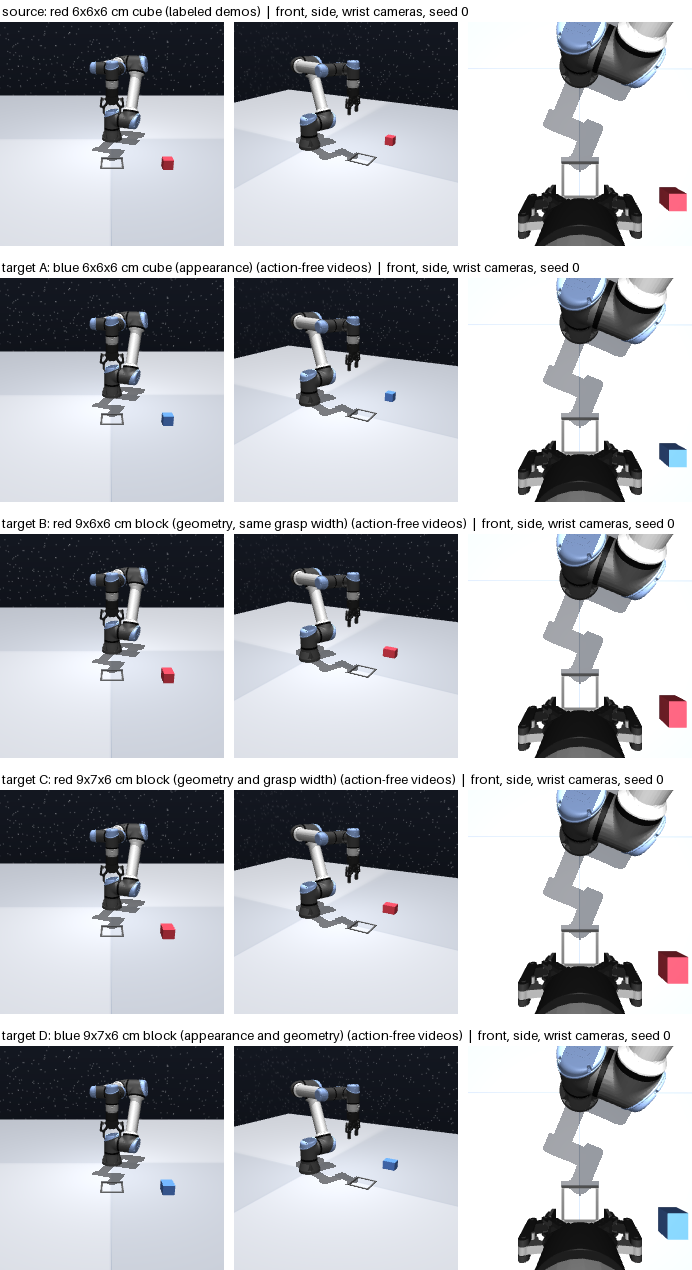
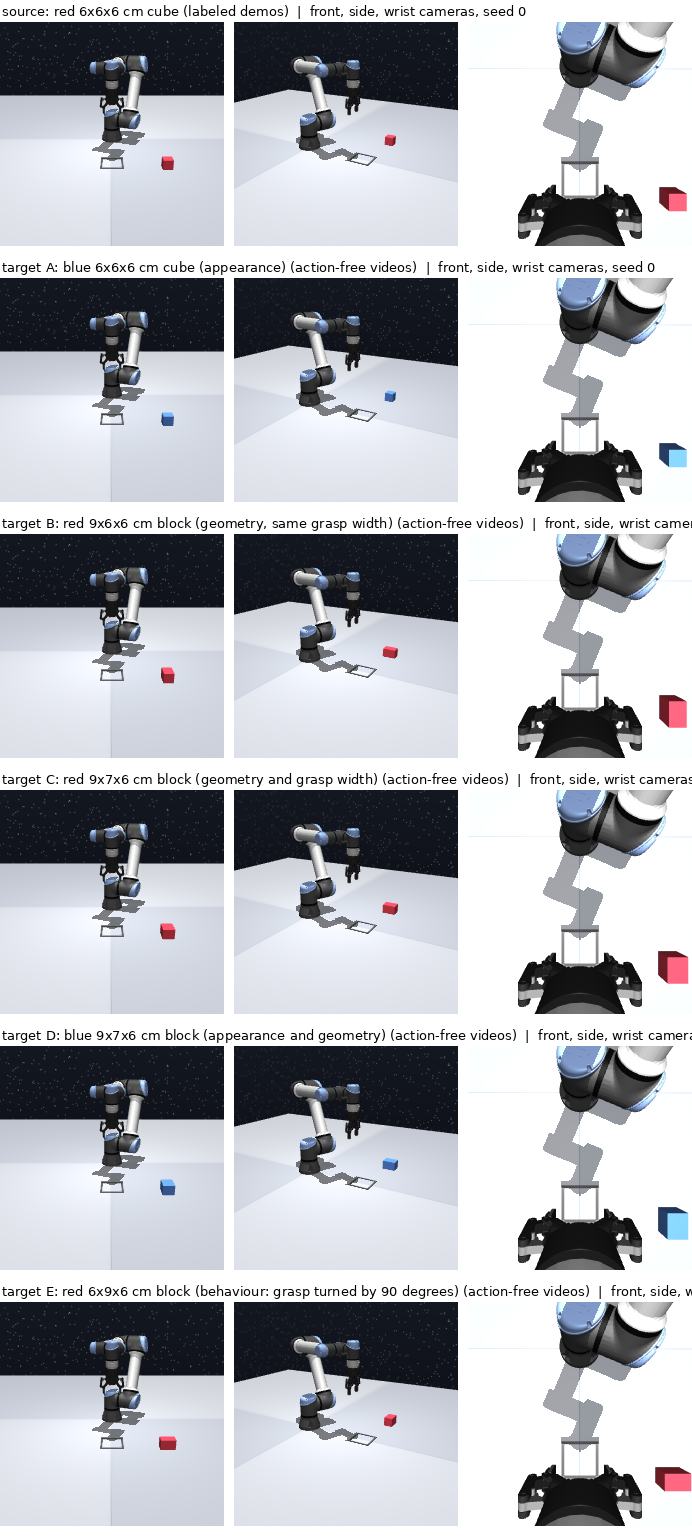
Target E and oracle D: results and documentation

diff --git a/README.md b/README.md
@@ -24,12 +24,13 @@ start for every object) and expert settings are shared. Defined in
 | B | 9 x 6 x 6 block, red | geometry | as source (across the 6 cm side) | [200](https://huggingface.co/datasets/Autobrik/ecse552-ocbench-block/tree/main/B-deterministic-n200-seed200000) | 200,000 | 99.0% |
 | C | 9 x 7 x 6 block, red | geometry and grasp width | across the 7 cm side, 2 cm above the centre | [200](https://huggingface.co/datasets/Autobrik/ecse552-ocbench-block/tree/main/C-deterministic-n200-seed300000) | 300,000 | 100% |
 | D | 9 x 7 x 6 block, blue | appearance, geometry and grasp width | as C | [200](https://huggingface.co/datasets/Autobrik/ecse552-ocbench-block/tree/main/D-deterministic-n200-seed400000) | 400,000 | 100% |
+| E | 6 x 9 x 6 block, red | behaviour: 9 cm does not fit the gripper | across the 6 cm side, gripper turned by 90° | [200](https://huggingface.co/datasets/Autobrik/ecse552-ocbench-block/tree/main/E-deterministic-n200-seed500000) | 500,000 | 93.9% |
 
 Targets are action-free videos for every method; their stored actions are only for the
 oracle (d) and evaluation. Blocks come from the fork's `object_size` argument: the 9 cm side
-lies along x, and success needs the whole block inside the 12 cm square. The expert never
-turns the grasp by 90 degrees, for any object (9 cm does not fit the 8.5 cm gripper, so
-cubes do not turn either). C and D are grasped higher because the gripper linkage hits a
+lies along x (along y for E), and success needs the whole block inside the 12 cm square. The
+expert never turns the grasp by 90 degrees, except for E, whose 9 cm side lies across the
+8.5 cm gripper ([target_E.md](docs/experiments/target_E.md)). C and D are grasped higher because the gripper linkage hits a
 7 cm block at its centre height (47% of episodes needed a second grasp attempt; 12% when
 grasping 2 cm higher, the same as the source).
 
@@ -42,9 +43,9 @@ hf download Autobrik/ecse552-ocbench-block --repo-type dataset --local-dir data 
 
 | Method | State | Where |
 |---|---|---|
-| Data: source and targets A, B, C, D | Done | [Objects](#objects) |
+| Data: source and targets A, B, C, D, E | Done | [Objects](#objects) |
 | (a) Baseline: ACT on source only | Done, 3 seeds | [baselines.md](docs/experiments/baselines.md) |
-| (d) Oracle: source + target with true actions | Done, 3 seeds for A, B, C; D not trained | [baselines.md](docs/experiments/baselines.md) |
+| (d) Oracle: source + target with true actions | Done, 3 seeds for A, B, C, D; E training | [baselines.md](docs/experiments/baselines.md) |
 | (e) Augmentation: source only, colour jitter | Done, 3 seeds; settings open to review | [augmentation.md](docs/experiments/augmentation.md) |
 | (b) IDM, (c) DANN | Not started; interface fixed | [Pseudo-labels](#data-and-models), `configs/act_idm_A.toml` |
 
@@ -57,14 +58,17 @@ Test success, 100 rollouts per object, mean ± std of 3 seeds. Original ACT
 | A (blue cube) | 0.3 ± 0.6% | **98.7 ± 1.5%** | 85.7 ± 14.0% |
 | B (red 9x6x6 block) | 82.3 ± 16.0% | 90.7 ± 10.1% | 88.3 ± 5.9% |
 | C (red 9x7x6 block) | 59.0 ± 20.0% | 68.0 ± 16.5% | 46.0 ± 37.5% |
-| D (blue 9x7x6 block) | 0% | **66.7 ± 7.6%** | not run |
+| D (blue 9x7x6 block) | 0% | **66.7 ± 7.6%** | 92.7 ± 4.2% |
+| E (red 6x9x6 block, turned grasp) | 0% | 0.3 ± 0.6% | training |
 
 - **The baseline's gap is colour, not shape**: it fails on the blue objects and transfers
   to the red blocks.
 - **Colour jitter alone closes that gap**: (e) uses no target data and reaches 98.7% on A,
   above the oracle, and 66.7% on D. On A nothing is left for (b) and (c) to gain over (e);
-  the room is on the 7 cm blocks C and D, where no method passes 70%
-  ([augmentation.md](docs/experiments/augmentation.md)).
+  on D the oracle is 26 points above it ([augmentation.md](docs/experiments/augmentation.md)).
+- **Target E changes the behaviour, not the appearance**: its 9 cm side does not fit the
+  gripper, so the grasp must turn by 90°. Baseline and augmentation both fail (0%, 0.3%);
+  only target videos can show the turn ([target_E.md](docs/experiments/target_E.md)).
 - **Oracle C**: seed 0 was a bad run (3%); seeds 1 and 2 reach 72% and 63%, and ACT on C
   alone 87% on validation. Its mean stays below the baseline, so C gives no usable gap for
   R4 ([baselines.md](docs/experiments/baselines.md)).
@@ -139,7 +143,7 @@ Fixed in [`configs/data.toml`](configs/data.toml) `[protocol]` before results:
 |---|---|
 | Episodes (`.npz`) | [Autobrik/ecse552-ocbench-block](https://huggingface.co/datasets/Autobrik/ecse552-ocbench-block) |
 | LeRobot copies, one per collection (visualizer) | [source](https://huggingface.co/datasets/Autobrik/ecse552-ocbench-source), [source-test](https://huggingface.co/datasets/Autobrik/ecse552-ocbench-source-test), [A](https://huggingface.co/datasets/Autobrik/ecse552-ocbench-A), [B](https://huggingface.co/datasets/Autobrik/ecse552-ocbench-B), [C](https://huggingface.co/datasets/Autobrik/ecse552-ocbench-C), [D](https://huggingface.co/datasets/Autobrik/ecse552-ocbench-D); augmentation (e), 20 episodes for illustration: [source-augmented-sample](https://huggingface.co/datasets/Autobrik/ecse552-ocbench-source-augmented-sample) |
-| ACT checkpoints | (a) [ecse552-act-deterministic](https://huggingface.co/Autobrik/ecse552-act-deterministic); (d) [-act-oracle-A](https://huggingface.co/Autobrik/ecse552-act-oracle-A), [-B](https://huggingface.co/Autobrik/ecse552-act-oracle-B), [-C](https://huggingface.co/Autobrik/ecse552-act-oracle-C); (e) [-act-augment](https://huggingface.co/Autobrik/ecse552-act-augment); diagnosis [-act-only-C](https://huggingface.co/Autobrik/ecse552-act-only-C); references: [-act-stochastic](https://huggingface.co/Autobrik/ecse552-act-stochastic), [-act-deterministic-proprio](https://huggingface.co/Autobrik/ecse552-act-deterministic-proprio) |
+| ACT checkpoints | (a) [ecse552-act-deterministic](https://huggingface.co/Autobrik/ecse552-act-deterministic); (d) [-act-oracle-A](https://huggingface.co/Autobrik/ecse552-act-oracle-A), [-B](https://huggingface.co/Autobrik/ecse552-act-oracle-B), [-C](https://huggingface.co/Autobrik/ecse552-act-oracle-C), [-D](https://huggingface.co/Autobrik/ecse552-act-oracle-D); (e) [-act-augment](https://huggingface.co/Autobrik/ecse552-act-augment); diagnosis [-act-only-C](https://huggingface.co/Autobrik/ecse552-act-only-C); references: [-act-stochastic](https://huggingface.co/Autobrik/ecse552-act-stochastic), [-act-deterministic-proprio](https://huggingface.co/Autobrik/ecse552-act-deterministic-proprio) |
 | Training curves | W&B `mu-robotics/ecse552` |
 
 Each collection records every seed, the scene and the expert's deliberate detours
@@ -173,9 +177,9 @@ repository as `labels/<name>/` and point a config's `[[targets]] actions` at it
 |---|---|
 | IDM (`idm.py`): predicts absolute targets from (o_t, o_t+1); writes pseudo-labels (format above) | Zheng Ye |
 | DANN (c) on the IDM | Myriam |
-| Oracle (d) for D (needs `configs/act_oracle_D.toml`) | Brik |
+| Oracle (d) for E: test and write up when the runs end | Brik |
 | Augmentation (e): review the settings in [augmentation.md](docs/experiments/augmentation.md) | Gonzalo |
-| Decide which targets anchor (b) and (c), now that (e) solves A | Team |
+| Targets for (b) and (c): A as a check of the pipeline, then D and E, where (e) leaves room; first measure the IDM label error on E ([target_E.md](docs/experiments/target_E.md)) | Team |
 
 ## Collaborating
 
@@ -190,7 +194,7 @@ repository as `labels/<name>/` and point a config's `[[targets]] actions` at it
 ```
 src/action_free/   collect, objects, initial_states, actions, act_original, evaluate, data, replay, idm (stub)
 scripts/           collect, replay, view, upload (npz, LeRobot), modal_train, select, evaluate, diagnose, play_policy, render
-configs/           data.toml (seeds, protocol, dataset revision), act_deterministic.toml (a), act_oracle_{A,B,C,D}.toml (d), act_augment.toml (e), act_idm_A.toml (b/c), act_only_C.toml (diagnosis), references
+configs/           data.toml (seeds, protocol, dataset revision), act_deterministic.toml (a), act_oracle_{A,B,C,D,E}.toml (d), act_augment.toml (e), act_idm_A.toml (b/c), act_only_C.toml (diagnosis), references
 third_party/       ocbench (fork), act (original)
 docs/              proposal, report, presentation, experiments, research
 ```

diff --git a/docs/experiments/target_E.md b/docs/experiments/target_E.md
@@ -1,0 +1,90 @@
+# Target E: a change of behaviour, not of appearance
+
+11 November 2026. Added after the results of augmentation (e), by Brik's decision. It was
+designed after seeing those results: say so in the report.
+
+## Why
+
+Method (e), source-only training with colour jitter, reaches 98.7% on the blue cube A
+without any target data ([augmentation.md](augmentation.md)). Targets that only change the
+appearance therefore cannot show what target videos add. A video of the target also shows
+**what to do** with it; augmentation cannot supply that.
+
+### Screening of candidates
+
+Trained checkpoints of (a) and (e) (3 seeds each) and of oracle A (seed 1) on four candidate
+objects, 20 validation rollouts each (seeds 900,000+). No training, no test seeds. The
+candidates were built by a temporary script and are not in the repository; with 20 rollouts
+each value is rough (about ± 20 points).
+
+| Candidate | (a) Baseline | (e) Augmentation | Oracle A, seed 1 |
+|---|---:|---:|---:|
+| Cube with a black and white checker texture | 0%, 0%, 0% | 100%, 100%, 85% | 15% |
+| Black cube | 0%, 0%, 0% | 80%, 70%, 75% | 70% |
+| White cube | 0%, 0%, 0% | 80%, 90%, 60% | 5% |
+| Red 6x9x6 cm block (9 cm side along y) | 0%, 0%, 0% | 0%, 0%, 0% | 0% |
+
+- No change of appearance defeats (e), not even a texture or gray levels that the jitter
+  never produces.
+- The baseline fails on everything that is not plain red.
+- Only the block that needs another grasp defeats every policy: it became target E.
+
+Discarded without a test: blocks that only change the grasp height (the gripper pads are
+about 4 cm long, so the source grasp still holds them) and narrower margins (C already shows
+that 0.75 cm per side makes even the oracle unstable).
+
+## The object
+
+| | |
+|---|---|
+| Shape, colour | 6 x 9 x 6 cm block, red: B's block with the 9 cm side along y, the axis the gripper closes on |
+| Why it needs another behaviour | 9 cm does not fit the 8.5 cm opening: the gripper must turn by 90 degrees and grasp across the 6 cm side |
+| Appearance | Unchanged (red, same material), so augmentation has nothing to add |
+| Definition | `E` in [`src/action_free/objects.py`](../../src/action_free/objects.py): `object_size = (0.06, 0.09, 0.06)` |
+| Expert | OCBench fork `ad30d1b`: a block whose second side exceeds 8.5 cm is grasped across its first side with a fixed turn of +90 degrees; nothing else changes (grasp at the centre height, as for B) |
+| Data | [`E-deterministic-n200-seed500000`](https://huggingface.co/datasets/Autobrik/ecse552-ocbench-block/tree/main/E-deterministic-n200-seed500000), 200 episodes, seeds from 500,000, dataset revision `b50de4d` |
+| Expert success | 93.9% (200 kept of 213 attempts); the other collections reach 99% to 100% |
+| Checks | Episode 0 replays exactly; tests cover size, colour, same start per seed, rendering and the turned grasp (`tests/test_collect.py`); cubes and B, C, D are not affected (their second side fits) |
+
+![Expert grasp of B and E](../target_E.png)
+
+The expert fails more often on E because the 9 cm side now lies along y, where the placed
+block ends 0.8 ± 0.3 cm off the goal centre (100 expert episodes); a 9 cm side has 1.5 cm of
+room in the 12 cm square. Failed attempts are not kept. Both turn directions were tried
+on 100 episodes (+90 degrees: 95%; -90 degrees: 97%); +90 was kept because fewer of its
+episodes leave the wrist range of the source demos.
+
+## Risk for the IDM: the wrist angle
+
+The IDM learns actions from the source demos only. The last wrist joint (`wrist_3`):
+
+| | Source (300 demos) | E (200 demos) |
+|---|---:|---:|
+| Range of the joint | -4.60 to 3.22 rad | -6.28 to 2.09 rad |
+| Frames with the joint below -1.2 rad | 2.5% (568 frames) | 75.5% |
+| Episodes that rotate it by more than 1.2 rad after the lift | 100 | 82 |
+| Episodes that leave the source range | - | 14 of 200 |
+| Largest change in one step | 0.61 rad | 0.59 rad |
+
+The source demos do rotate the wrist (while carrying and placing), and step sizes are alike.
+But the turned grasp holds the joint where the source has few frames: three quarters of E's
+frames lie in a region with 2.5% of the source frames. The IDM may label that region badly.
+Measure its label error on E against the true actions (evaluation only) before training
+policies on its labels.
+
+## Results
+
+Test success, 100 rollouts per seed (seeds 1,000,000+), one test per selected checkpoint.
+
+| Method | Seed 0 | Seed 1 | Seed 2 | Mean | Std | 95% Wilson, 300 rollouts |
+|---|---:|---:|---:|---:|---:|---:|
+| (a) Baseline | 0% | 0% | 0% | 0.0% | 0.0 | [0.0, 1.3] |
+| (e) Augmentation | 0% | 1% | 0% | 0.3% | 0.6 | [0.1, 1.9] |
+| (d) Oracle E | pending | pending | pending | | | |
+
+- Neither source-only method solves E: the policy must be shown the turned grasp.
+- Oracle E (`configs/act_oracle_E.toml`, source + E with true actions, seeds 0, 1, 2) was
+  launched on Modal on 11 November 2026 at 02:44. When it ends: select each checkpoint on
+  100 source validation rollouts and test it once on E and on source, as for the other
+  oracles ([baselines.md](baselines.md)).
+- E is a usable target only if the oracle is clearly above 0%; the expert's 93.9% bounds it.

diff --git a/docs/experiments/baselines.md b/docs/experiments/baselines.md
@@ -10,7 +10,7 @@ target with their true actions. These two bound the methods that use target vide
 | | |
 |---|---|
 | Data | [Autobrik/ecse552-ocbench-block](https://huggingface.co/datasets/Autobrik/ecse552-ocbench-block), `[hub] revision` in [`configs/data.toml`](../../configs/data.toml): `deterministic` collections re-recorded on 10 November without 90° grasp turns (OCBench fork `148a7b8`) |
-| Configs | `configs/act_deterministic.toml` (a), `configs/act_oracle_{A,B,C}.toml` (d), `configs/act_only_C.toml` (diagnosis) |
+| Configs | `configs/act_deterministic.toml` (a), `configs/act_oracle_{A,B,C,D}.toml` (d), `configs/act_only_C.toml` (diagnosis) |
 | Training | ACT README settings, chunk 20, 2,000 epochs, upstream 80/20 split; one A10G per run on Modal |
 | Selection | `policy_best` vs `policy_last`, 100 source validation rollouts each (seeds 900,000+), ties to best |
 | Test | each selected checkpoint once, 100 rollouts per object (seeds 1,000,000+), temporal ensembling (k = 0.01) |
@@ -18,7 +18,7 @@ target with their true actions. These two bound the methods that use target vide
 ## Results
 
 Success over 100 test rollouts per object. All runs finished on 10 November 2026; model
-repos `Autobrik/ecse552-act-deterministic`, `Autobrik/ecse552-act-oracle-{A,B,C}` and
+repos `Autobrik/ecse552-act-deterministic`, `Autobrik/ecse552-act-oracle-{A,B,C,D}` and
 `Autobrik/ecse552-act-only-C`.
 
 ### Baseline (a): source only, 3 seeds
@@ -30,6 +30,7 @@ repos `Autobrik/ecse552-act-deterministic`, `Autobrik/ecse552-act-oracle-{A,B,C}
 | B (red 9x6x6 block) | 67% | 99% | 81% | 82.3% | 16.0 | [77.6, 86.2] |
 | C (red 9x7x6 block) | 42% | 81% | 54% | 59.0% | 20.0 | [53.4, 64.4] |
 | D (blue 9x7x6 block) | 0% | 0% | 0% | 0.0% | 0.0 | [0.0, 1.3] |
+| E (red 6x9x6 block, turned grasp) | 0% | 0% | 0% | 0.0% | 0.0 | [0.0, 1.3] |
 
 ### Oracle (d): source + one target with true actions, 3 seeds
 
@@ -41,8 +42,11 @@ repos `Autobrik/ecse552-act-deterministic`, `Autobrik/ecse552-act-oracle-{A,B,C}
 | B | source | 94% | 91% | 82% | 89.0% | 6.2 | [85.0, 92.1] | 90.7% |
 | C | C | **3%** | 72% | 63% | 46.0% | 37.5 | [40.4, 51.7] | 59.0% |
 | C | source | 67% | 100% | 94% | 87.0% | 17.6 | [82.7, 90.3] | 90.7% |
+| D | D | 88% | 96% | 94% | 92.7% | 4.2 | [89.1, 95.1] | 0.0% |
+| D | source | 96% | 100% | 93% | 96.3% | 3.5 | [93.6, 97.9] | 90.7% |
 
-Oracle D is not trained yet.
+Oracle D was trained on 11 November 2026 (`configs/act_oracle_D.toml`); oracle E:
+[target_E.md](target_E.md).
 
 ### Diagnosis: ACT on C alone (`configs/act_only_C.toml`, seed 0)
 
@@ -70,6 +74,9 @@ Oracle D is not trained yet.
 | (d) C seed 0 | 31% (1688) | 60% | last |
 | (d) C seed 1 | 98% (1578) | 82% | best |
 | (d) C seed 2 | 94% (1868) | 97% | last |
+| (d) D seed 0 | 93% (1688) | 95% | last |
+| (d) D seed 1 | 99% (1757) | 94% | best |
+| (d) D seed 2 | 69% (1451) | 90% | last |
 
 ## Reading
 
@@ -82,6 +89,9 @@ Oracle D is not trained yet.
   inconclusive there. Without seed 0 the oracle reaches 72% and 63% against a baseline of
   81% and 54% on the same seeds.
 - **Oracle C seed 0 was a bad run, not a property of C** (see below).
+- **The oracle works for D** (0% to 92.7%, source 96.3%), although D has C's shape and grasp:
+  the 7 cm block is learnable. D is 26 points above augmentation (66.7%), the largest room
+  left for methods that use target videos.
 - **High variance.** Success moves by tens of points across seeds and between checkpoints
   of one run ((a) seed 1: 100% vs 21%; C alone: 87% vs 18% on C). The Wilson interval pools
   the three seeds' rollouts and does not include that spread; compare methods per seed and
@@ -121,7 +131,7 @@ y; the opening is 8.5 cm, so a 7 cm block leaves 0.75 cm per side and a 6 cm one
 
 ## Limits
 
-- Oracle D is missing; the C-alone diagnosis has one seed and validation rollouts only.
+- The C-alone diagnosis has one seed and validation rollouts only.
 - Every checkpoint, the oracle's too, is selected on source validation rollouts; this may
   understate the oracle on its target.
 - The expert lost its 90° grasp turns after the 100-demo result (R2); R2 stays at 300. The

diff --git a/docs/ai-use-log.md b/docs/ai-use-log.md
@@ -21,3 +21,4 @@ entries were condensed into the row above when the repository history was reset 
 | 2026-11-10 | Brik | Claude Code | A local web app to watch policy rollouts live (run, checkpoint, object, initial state from training demos, validation demos or new seeds); a converter that publishes each collection as its own LeRobot dataset (not yet run for publication) | `scripts/play_policy.py`, `scripts/upload_lerobot_hf.py`, `README.md` | Brik chose the design and reviewed the interface. The app runs rollouts through `evaluate.rollout` unchanged and was exercised through its API (success, failure, stop); the converter was run locally on the 50-episode test collection without publishing (frame count matches the manifest). |
 | 2026-11-10 | Brik | Claude Code | Final-report update to the current results: re-recorded data without grasp turns, objects A to D, R2 = 300, baseline (a) with 3 seeds, oracle (d) seed 0 and the oracle C diagnosis, augmentation settings; pending parts kept as red TODOs | `docs/report/main.tex` (and built `main.pdf`, `main.docx`) | Numbers copied from `docs/experiments/baselines.md`, `act_original.md`, `augmentation.md`, the dataset manifests and the test `results.json` (latency); Wilson intervals computed from the reported counts; `make report` builds without warnings. The team must review the text. |
 | 2026-11-10 | Brik | Claude Code | Ran the plan Brik wrote and authorized: image augmentation (e) implemented and trained with 3 seeds; oracle (d) seeds 1 and 2 for A, B, C; ACT on C alone as a diagnosis of oracle C; selection, tests and write-up | `src/action_free/act_original.py`, `tests/test_data_policy.py`, `configs/act_augment.toml`, `configs/act_only_C.toml`, `docs/experiments/baselines.md`, `docs/experiments/augmentation.md`, `docs/augmentation.png`, `scripts/upload_lerobot_hf.py` (20-episode augmented sample on HF, illustration), `README.md` | Brik chose the runs and the oracle definition; the augmentation settings are a first choice left for Gonzalo to review. Every number comes from the logged rollouts (`results.json`, `selection.json`; test seeds once per selected checkpoint); means, std and Wilson intervals computed from them by script; ruff and pytest pass. |
+| 2026-11-11 | Brik | Claude Code | Oracle (d) for D trained and tested (3 seeds); screening of candidate targets with the trained policies; target E (red 6x9x6 block grasped with a 90° turn): expert rule in the OCBench fork, 200 videos recorded and published, baseline (a) and augmentation (e) tested on it, oracle E launched on Modal; a 20-episode LeRobot sample of the augmentation | `third_party/ocbench` (fork `ad30d1b`), `src/action_free/objects.py`, `tests/test_collect.py`, `configs/data.toml`, `configs/act_oracle_{D,E}.toml`, `scripts/upload_dataset_hf.py`, `scripts/upload_lerobot_hf.py`, `docs/experiments/target_E.md`, `baselines.md`, `augmentation.md`, `docs/scene.png`, `docs/target_E.png`, `README.md`, HF dataset `b50de4d` | Brik decided to add a behaviour target and chose the turned block after the screening (20 validation rollouts per case, temporary script, reported as rough). Expert success 93.9% over 213 attempts; episode 0 replays exactly; other collections unchanged on the Hub; tests cover the turned grasp; test numbers come from the logged rollouts (test seeds once per selected checkpoint); ruff and pytest pass. Oracle E not yet evaluated. |

diff --git a/docs/experiments/augmentation.md b/docs/experiments/augmentation.md
@@ -55,7 +55,8 @@ Trained on Modal (about 5 h per run), model repo
 | A (blue cube) | 97% | 100% | 99% | **98.7%** | 1.5 | [96.6, 99.5] | 0.3% | 85.7% |
 | B (red 9x6x6 block) | 96% | 79% | 97% | 90.7% | 10.1 | [86.8, 93.5] | 82.3% | 88.3% |
 | C (red 9x7x6 block) | 78% | 49% | 77% | 68.0% | 16.5 | [62.5, 73.0] | 59.0% | 46.0% |
-| D (blue 9x7x6 block) | 72% | 58% | 70% | **66.7%** | 7.6 | [61.2, 71.8] | 0.0% | not run |
+| D (blue 9x7x6 block) | 72% | 58% | 70% | **66.7%** | 7.6 | [61.2, 71.8] | 0.0% | 92.7% |
+| E (red 6x9x6 block, turned grasp) | 0% | 1% | 0% | 0.3% | 0.6 | [0.1, 1.9] | 0.0% | pending |
 
 Selection (100 source validation rollouts): `policy_best` in the three seeds, 96% (epoch
 1872), 91% (1932), 98% (1995); `policy_last` 62%, 57%, 70%.
@@ -66,8 +67,8 @@ Selection (100 source validation rollouts): `policy_best` in the three seeds, 96
   blocks; per seed it is below (a) on B and C for seed 1 only.
 - **What is left is geometry**: D (66.7%) is level with C (68.0%), the same 7 cm block in
   red. Once colour is handled, the blue block fails like the red one.
-- **Consequence for (b) and (c)**: on A there is nothing left to gain over (e). Target
-  videos can still help on C and D, where no method passes 70%; oracle D is needed to know
-  the bound.
+- **Consequence for (b) and (c)**: on A there is nothing left to gain over (e). On D the
+  oracle reaches 92.7%, 26 points above (e): target videos can help there. A target that
+  changes the behaviour, where (e) cannot help at all, is E ([target_E.md](target_E.md)).
 - Limits: one augmentation setting, 3 seeds, and the hue range assumes the target colour is
   unknown but inside the jitter.
